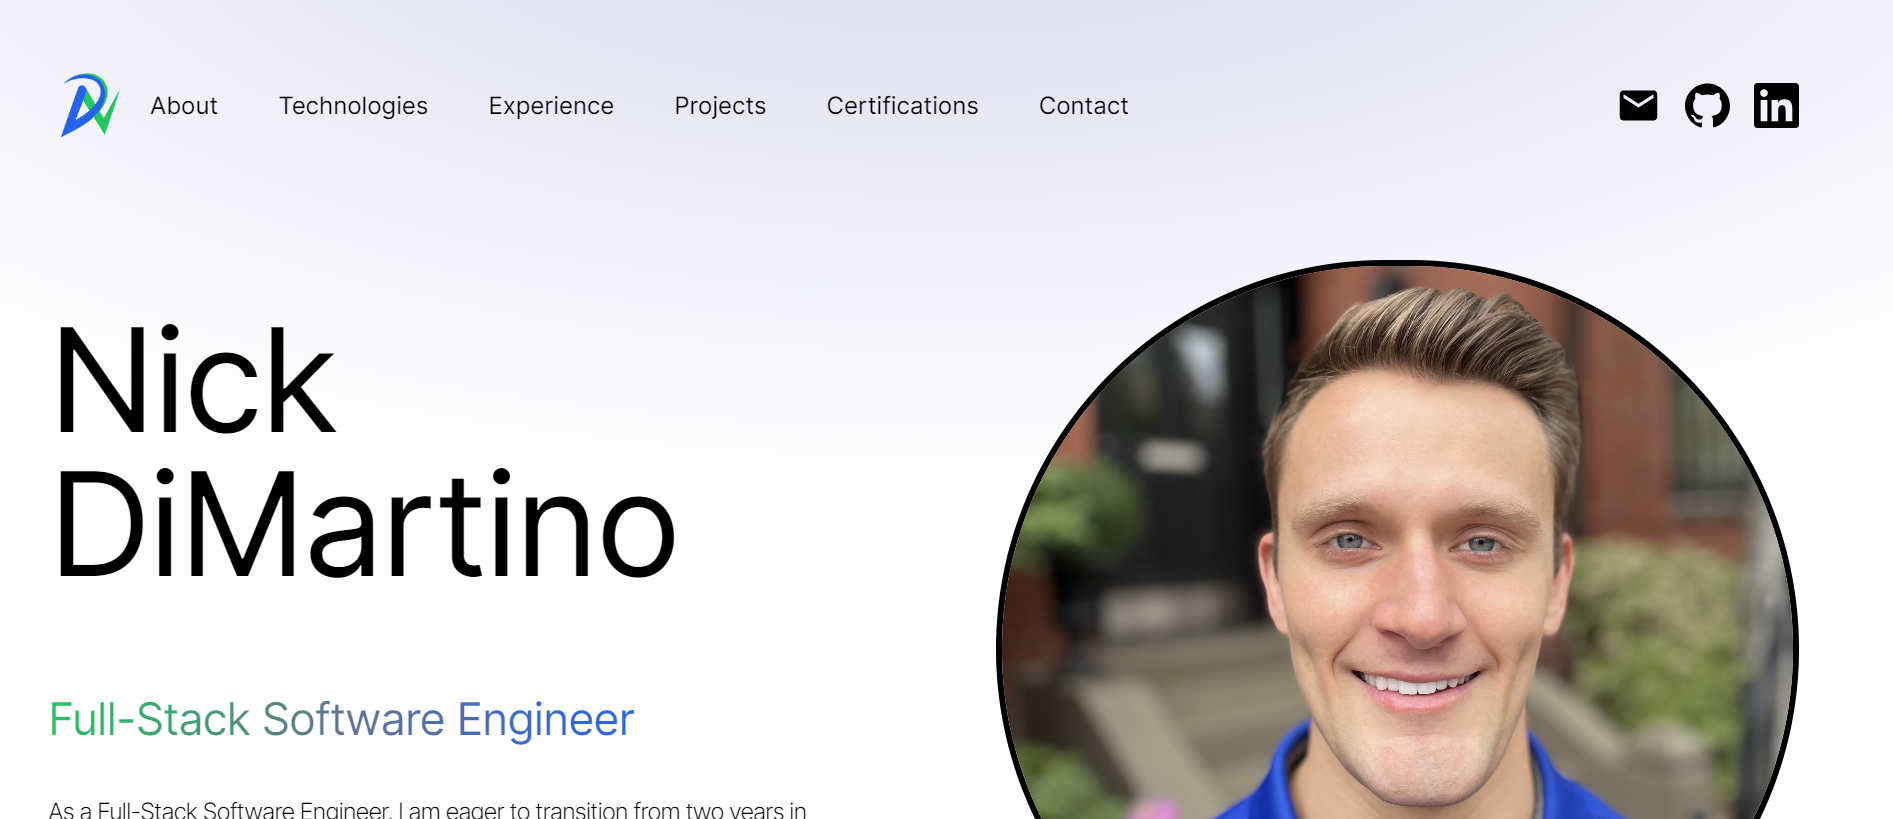
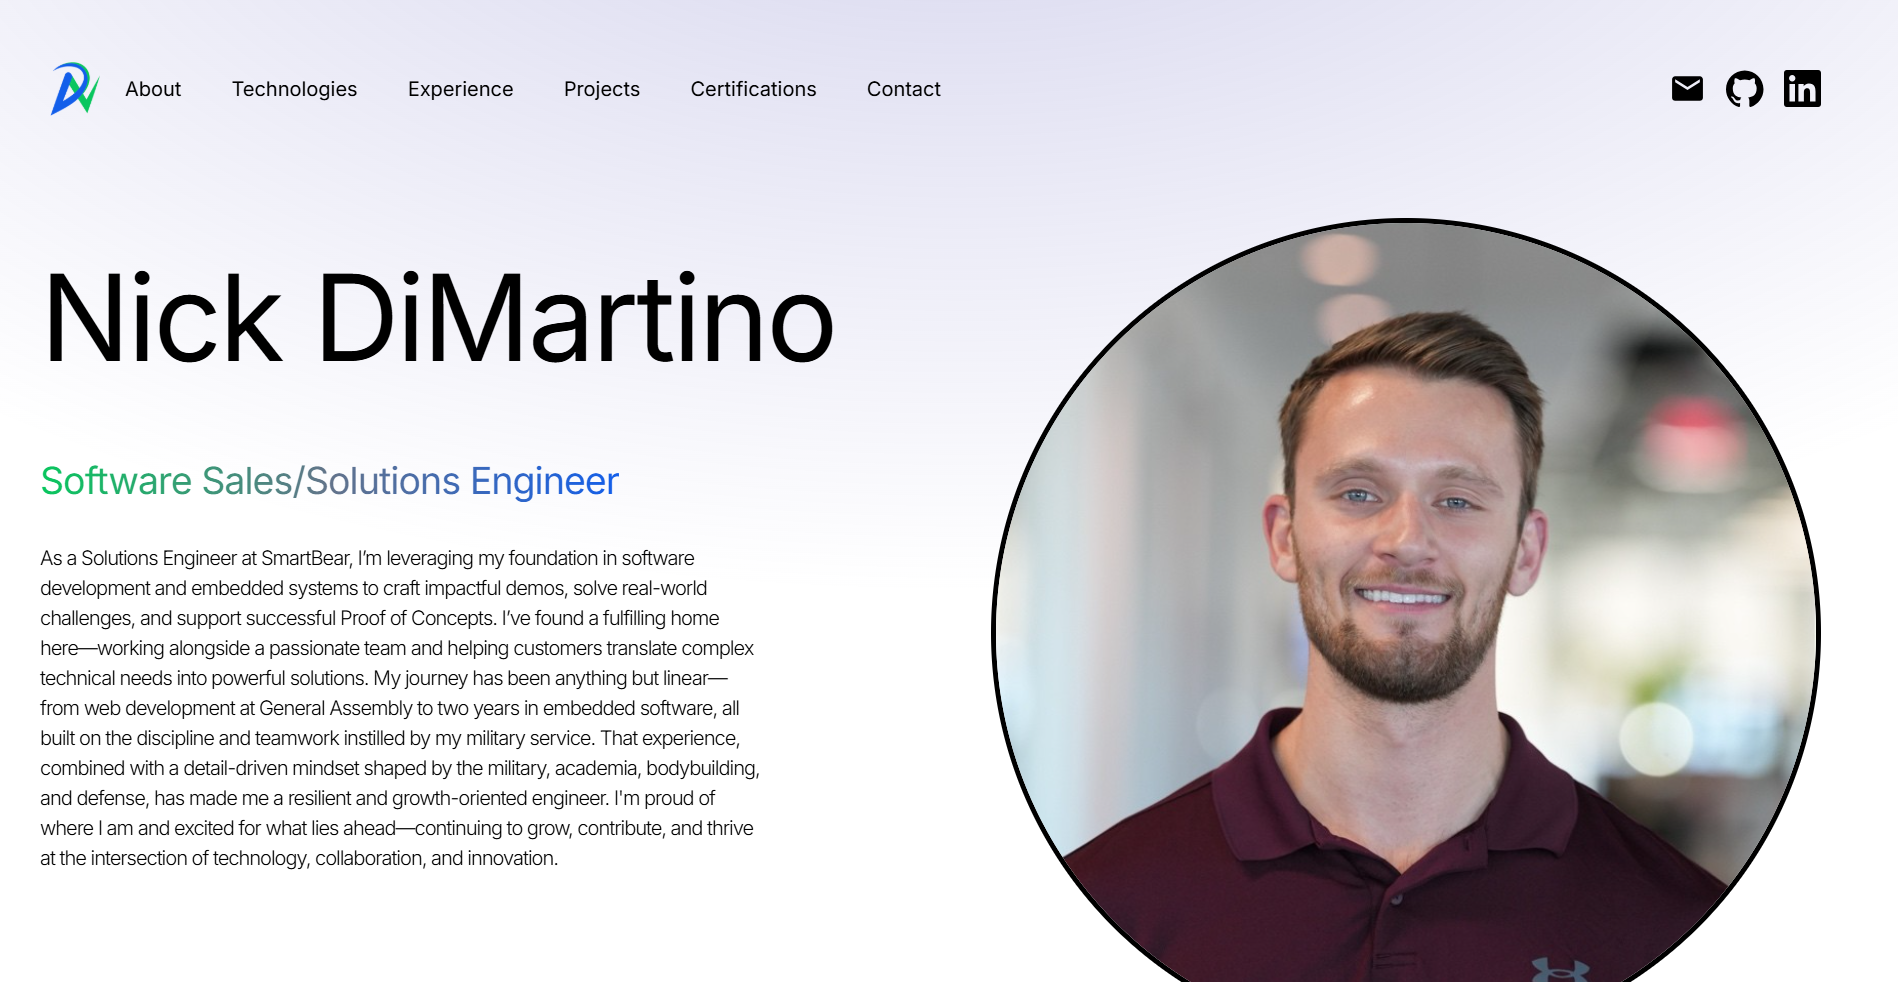
Updated for SE

diff --git a/src/constants/index.js b/src/constants/index.js
@@ -32,22 +32,65 @@ export const navLinks = [
   },
 ];
 
-export const HERO_CONTENT = `As an experienced Software Engineer, I am eager to transition from my web development at General Assembly and two years in embedded software to my next Software Engineering role. My military experience instilled in me the importance of discipline and teamwork, shaping me into an engineer who thrives in challenging environments that foster growth and innovation. With meticulous attention to detail and a procedural mindset developed through experiences in the military, academia, bodybuilding, and the defense industry, I tackle challenges with a positive and focused attitude. I am now actively seeking opportunities to demonstrate my capabilities in a Software Engineer role, prepared to bring my unique perspective and skills to the forefront.`;
+export const HERO_CONTENT = `As a Solutions Engineer at SmartBear, I’m leveraging my foundation in software development and embedded systems to craft impactful demos, solve real-world challenges, and support successful Proof of Concepts. I’ve found a fulfilling home here—working alongside a passionate team and helping customers translate complex technical needs into powerful solutions.
 
-export const ABOUT_TEXT = `I am a dedicated and versatile software engineer with a passion for creating efficient, user-friendly web applications and impressive, highly-architectured software. With 3 years of professional experience, I have worked with a variety of technologies, including Next, React, TypeScript, Node.js, C++, Python, MongoDB, and Prisma. My journey in software began when I was 15, and my curiosity for learning how things work evolved into a career where I continuously strive to learn and adapt to new challenges. I thrive in a variety of environments and enjoy solving complex problems to deliver high-quality solutions. Outside of coding, I enjoy bodybuilding, snowboarding, Electronic Dance Music (EDM), video games, anime, reading, and tending to my cat who requires unwavering attention.`;
+My journey has been anything but linear—from web development at General Assembly to two years in embedded software, all built on the discipline and teamwork instilled by my military service. That experience, combined with a detail-driven mindset shaped by the military, academia, bodybuilding, and defense, has made me a resilient and growth-oriented engineer.
+
+I'm proud of where I am and excited for what lies ahead—continuing to grow, contribute, and thrive at the intersection of technology, collaboration, and innovation.`;
+
+export const ABOUT_TEXT = `I'm a Solutions Engineer at SmartBear with a strong foundation in software engineering, shaped by hands-on experience in embedded systems at General Dynamics, full stack web development through General Assembly, and technical mentorship in the U.S. Air Force. My transition into pre-sales engineering was driven by a passion for solving real-world customer problems through impactful demos, proof-of-concepts, and technical storytelling.
+
+At SmartBear, I collaborate with sales and product teams to showcase the power of our API testing suite—ReadyAPI, API Hub, TestHub, and more—crafting tailored technical demonstrations that resonate with diverse stakeholders. I specialize in translating complex functionality into clear business value, and I thrive in environments where curiosity, precision, and cross-functional collaboration are key to success.
+
+My military background instilled a mindset of discipline, structure, and resilience—qualities that now guide my approach to customer engagement, demo creation, and solution development. Whether leading POCs, responding to RFPs, or aligning technical solutions with strategic business goals, I bring a sharp attention to detail, a methodical approach, and a sincere desire to help others succeed.
+
+I'm always open to sharing what I’ve learned about the tech industry, software career growth, and effective communication in engineering. Let's connect if you want to talk APIs, demos, or breaking into tech with confidence.
+`;
 
 export const EXPERIENCES = [
   {
-    year: "May 2024 - Present",
+    year: "September 2024 - Present",
+    role: "Software Sales/Solutions Engineer",
+    company: "SmartBear",
+    companyWebsite: "https://www.linkedin.com/company/smartbear/posts/?feedView=all",
+    description: [
+      `Acted as a trusted advisor to sales representatives, demonstrating the value of SmartBear’s suite of tools.`,
+      `Developed creative solutions for technical challenges leveraging SmartBear’s technologies.`,
+      `Collaborated with Solutions Engineers to manage Proofs of Concept (POCs), develop account-specific use cases, and provide technical support.`,
+      `Built relationships with tool users during the POC process through check-ins, screen shares, and addressing specific requests.`,
+      `Worked with Marketing, Product Management, and Customer Adoption teams to drive product success and enhance customer satisfaction pre-sale and post-sale.`,
+      `Responsible for completing Request for Proposals (RFPs), creating POC checklists, and setting up tailored demo environments.`
+    ],
+    technologies: [
+      "ReadyAPI",
+      "API Hub",
+      "Test Hub",
+      "SwaggerHub",
+      "SwaggerHub Portal",
+      "SwaggerHub Explore",
+      "PactFlow",
+      "Reflect",
+      "TestComplete",
+      "LoadNinja",
+      "VisualTest",
+      "BitBar",
+      "Camtasia",
+      "Full Stack Web Development",
+      "API Testing",
+      "UI Testing"
+    ],
+  },
+  {
+    year: "May 2024 - October 2024",
     role: "Chief Technical Officer/Founding Engineer",
     company: "Sharp Action Sports",
     companyWebsite: "https://www.linkedin.com/company/sharp-action-sports/?viewAsMember=true",
     description: [
-      `Defining and executing the company's technological vision, strategy, and roadmap to support business goals and drive innovation.`,
-      `Overseeing the end-to-end development and delivery of high-quality software products, ensuring alignment with market needs and company objectives.`,
-      `Conducting research and proof-of-concepts for new technologies to enhance product offerings and keep the company at the forefront of industry trends.`,
-      `Establishing and enforcing coding standards, best practices, and conducted thorough testing to ensure code quality and maintainability.`,
-      `Implementing security measures and protocols to protect user data and ensure compliance with industry standards.`,
+      `Partnered directly with early users to identify technical needs, shaping proof-of-concepts and MVP features tailored to customer use cases—mirroring pre-sales engagement strategies.`,
+      `Conducted in-depth technical research and POC development on emerging tools and frameworks, improving solution fit and enabling value-driven demos.`,
+      `Designed and implemented security protocols in line with industry compliance standards, enhancing trust with prospective users and stakeholders.`,
+      `Defined and communicated the company’s technical roadmap in accessible terms to internal leadership and external stakeholders, bridging the gap between technical feasibility and business impact.`,
+      `Proactively troubleshot and resolved infrastructure challenges, enhancing platform reliability and scalability in dynamic, fast-paced environments.`,
     ],
     technologies: [
       "Next",
@@ -72,10 +115,12 @@ export const EXPERIENCES = [
     company: "General Assembly",
     companyWebsite: "https://generalassemb.ly/",
     description: [
-      `Completed a full-time Software Engineering Bootcamp, comprising over 420 hours of intensive professional training spanning twelve weeks.`,
-      `Applied a hands-on approach to master user-centered design principles and software engineering methodologies.`,
-      `Developed technical skills encompassing programming languages, frameworks, and tools relevant to modern software development.`,
-      `Collaborated effectively within team environments to solve complex problems and deliver high-quality software solutions.`,
+      `Completed a 420+ hour immersive Software Engineering Bootcamp, mastering full-stack development and building production-ready applications under tight deadlines.`,
+      `Developed front-end and back-end solutions using modern frameworks such as React, Node.js, and Express, with a focus on API integration and user experience.`,
+      `Employed user-centered design principles and agile methodologies to iteratively prototype, test, and refine software solutions aligned with real-world use cases.`,
+      `Strengthened technical problem-solving skills through practical application of data structures, algorithms, and object-oriented programming.`,
+      `Led and contributed to collaborative team projects, including pair programming, code reviews, and live demos—effectively communicating complex technical concepts to diverse audiences.`,
+      `Built portfolio-ready applications to demonstrate technical proficiency, adaptability, and customer-focused solution development.`,
     ],
     technologies: [
       "React",
@@ -103,12 +148,13 @@ export const EXPERIENCES = [
     company: "General Dynamics Missions Systems",
     companyWebsite: "https://gdmissionsystems.com/",
     description: [
-      `Created standardized procedural and troubleshooting guides for the engineering department to narrow the knowledge disparity between seasoned and junior engineers.`,
-      `Leveraging expertise in a specialized product domain, I mentored six new team members through the procedures, leading to accelerated onboarding and enhanced system comprehension among the whole team.`,
-      `Designed a VLAN feature utilizing event-driven software and cryptographic principles to serve as an intermediary between two interfaces. This innovation facilitated efficient communication of network traffic between the user interface and the network interface, enhancing overall functionality.`,
-      `Managed version control of C++ source code and incorporated four new features while preserving existing functionality on Real-Time Operating Systems (RTOS), embedded systems, and debugging/unit test software.`,
-      `Adhered to Agile/Scrum methodology and employed CI/CD practices to guarantee prompt delivery of five software projects, utilizing IBM ClearCase for version control.`,
-      `Conducted over twenty reviews aimed at enhancing code quality and ensuring compliance with stringent security standards.`,
+      `Created standardized troubleshooting and procedural documentation, enhancing cross-team collaboration and reducing onboarding time by streamlining knowledge transfer between senior and junior engineers.`,
+      `Mentored six new engineers, guiding them through complex product domain concepts and internal workflows—improving technical ramp-up and enabling faster contributions to customer-facing features.`,
+      `Designed and implemented a VLAN feature using event-driven architecture and cryptographic principles to bridge UI and network interfaces, improving system communication and user experience.`,
+      `Contributed to feature development in C++ for real-time embedded systems, maintaining stability and backward compatibility across mission-critical environments.`,
+      `Actively participated in Agile ceremonies and delivered on five major projects, applying CI/CD practices and test-driven development for consistent, high-quality releases.`,
+      `Led over 20 code and security reviews to uphold compliance with rigorous DoD security and quality standards, ensuring reliability in sensitive environments.`,
+      `Managed complex debugging workflows and contributed to the delivery of customer-ready builds through systematic testing, version control, and iterative feedback loops.`
     ],
     technologies: ["C++", "IBM Rhapsody", "IBM ClearCase", "Linux"],
   },
@@ -118,10 +164,11 @@ export const EXPERIENCES = [
     company: "Wilcox Industries",
     companyWebsite: "https://wilcoxind.com/",
     description: [
-      `Collaborated on a team of four to develop a software prototype that effectively showcased the viability of a novel research concept, establishing a foundation for the company to seamlessly continue the project upon our team's departure.`,
-      `Designed a unique UI/UX interface from scratch utilizing Android Studio, Java, Kotlin, CSS, and HTML to establish connectivity with an external camera via Bluetooth and USB on an Android phone app.`,
-      `Contributed to the development of user interfaces, database systems, and backend services under the guidance of experienced team members.`,
-      `Conducted research and analysis to support the resolution of technical challenges and optimize software performance.`,
+      `Collaborated on a cross-functional team of four to develop a software prototype demonstrating the feasibility of an innovative research initiative, paving the way for continued development post-internship.`,
+      `Designed and implemented a custom Android UI/UX interface using Android Studio, Java, Kotlin, CSS, and HTML—enabling seamless Bluetooth and USB connectivity with an external camera.`,
+      `Gained full-stack development experience by contributing to front-end interfaces, backend logic, and database integration in a production-adjacent environment.`,
+      `Partnered with senior engineers to solve complex technical problems and iterate on feature designs based on user needs and hardware interaction constraints.`,
+      `Practiced communicating technical findings and development progress to stakeholders, honing early-stage product validation and storytelling skills useful in customer-facing roles.`
     ],
     technologies: ["Java", "Kotlin", "Android Studio", "HTML", "CSS"],
   },
@@ -131,11 +178,11 @@ export const EXPERIENCES = [
     company: "US Air National Guard",
     companyWebsite: "https://www.104fw.ang.af.mil/",
     description: [
-      `Provided training and mentorship to junior technicians in aircraft maintenance and repair, specializing in F-15 Fighter Jets..`,
-      `Successfully completed Air Force Boot Camp and fulfilled a six-year enlistment, earning Veteran status upon separation.`,
-      `Documented all maintenance activities accurately and maintain detailed records of aircraft maintenance history.`,
-      `Demonstrated flexibility and adaptability in a fast-paced and dynamic work environment.`,
-      `Adhered to strict safety protocols and regulations to ensure compliance with military standards.`,
+      `Delivered hands-on mentorship and training to junior technicians in the maintenance and repair of F-15 fighter jets, fostering a culture of precision and accountability.`,
+      `Successfully completed Air Force Basic Training and fulfilled a six-year enlistment, earning Veteran status and demonstrating long-term commitment, discipline, and resilience.`,
+      `Maintained detailed technical documentation of maintenance procedures and system histories, aligning with rigorous compliance standards—mirroring documentation practices in regulated tech environments.`,
+      `Operated in a high-stakes, fast-paced setting where adaptability and clear communication were critical to mission success—translating well into dynamic customer-facing technical roles.`,
+      `Adhered to and enforced strict safety protocols and regulatory requirements, ensuring the highest standards of operational readiness and system reliability.`,
     ],
     technologies: [
       "Soft Skills",
@@ -156,9 +203,10 @@ export const EXPERIENCES = [
     companyWebsite: "https://www.umass.edu/",
     description: [
       "Activities and societies: Theta Chi Fraternity - Theta Chapter, Big Brother Big Sister",
-      "Analyzed and solved complex technical problems through systematic approaches and critical thinking skills.",
-      "Gained a strong understanding of computer hardware components, including processors, memory systems, and peripheral interfaces.",
-      "Specialized in computer architecture, digital systems design, embedded systems, security engineering, and computer networks.",
+      "Applied systematic problem-solving and critical thinking to analyze and resolve complex engineering challenges—preparing for real-world customer solutioning and technical consultation.",
+      "Completed projects involving embedded programming, circuit design, and systems integration, providing early hands-on experience with debugging, hardware-software interfacing, and technical documentation.",
+      "Participated in team-based design and development environments, strengthening collaboration, communication, and project planning skills.",
+      "Involved in extracurricular organizations including Theta Chi Fraternity and Big Brother Big Sister, demonstrating leadership, mentorship, and community engagement."
     ],
     technologies: [
       "Software Development",

diff --git a/src/components/Hero.jsx b/src/components/Hero.jsx
@@ -31,7 +31,7 @@ const Hero = () => {
               animate="visible"
               className="bg-gradient-to-r from-green-500 via-slate-500 to-blue-600 bg-clip-text text-3xl tracking-tight text-transparent"
             >
-              Software Engineer
+              Software Sales/Solutions Engineer
             </motion.span>
             <motion.p
               variants={container(1)}
